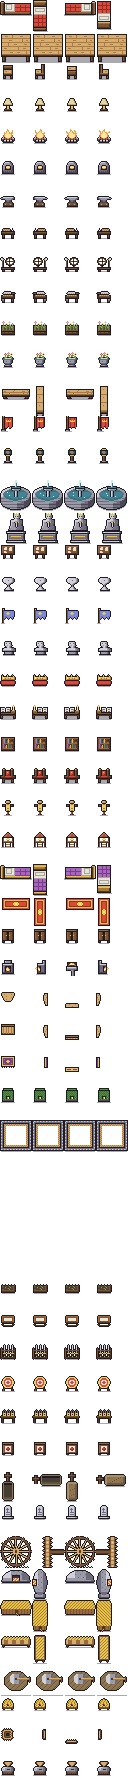
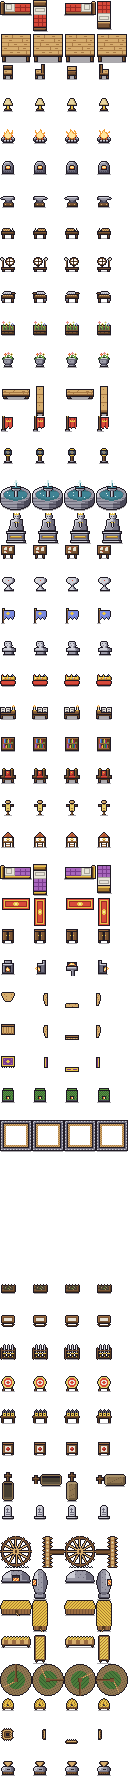
Make the traction mill a capstan behind the mill's wall
The outdoor animal mill becomes part of the mill building, like the
water wheel: a capstan (2x2, 10 wood, with the Mill research) stands on
dry land with its back against the outer wall behind the gear, its shaft
through the wall. The gear is turned by a water wheel or a capstan; with
both, the wheel goes first while the stream flows. At the millstone the
miller hitches the nearest grown-up, fed cow, who circles the post while
he pours (8 s for 2 flour); without a cow he fills the hopper, goes out
and pushes the beam himself (12 s, -5 rest), and the flour falls by the
millstone. A capstan works in winter too.

Claude-Session: https://claude.ai/code/session_01752LPAN6ZsYGVVVStQWchm

Changed region(s): [[0.0, 0.9062, 1.0, 0.9688]]

diff --git a/tools/make_sprites.py b/tools/make_sprites.py
@@ -4630,25 +4630,26 @@ def manger():
     return [front, side, front, side]
 
 
-# --- La macina a trazione (GDD 4.4.7) ---
+# --- Il maneggio del mulino (GDD 4.4.7) ---
 
-def animal_mill():
-    """Macina a trazione 32x32 (2x2), uguale girata: la mola di pietra sulla base, la stanga di legno che esce verso
-    destra (dove la mucca la tira girando)"""
+def capstan():
+    """Il maneggio 32x32 (2x2), contro il muro esterno del mulino: la pista di terra battuta dove gira chi tira, il palo
+    in mezzo, la stanga verso il basso a sinistra e l'albero che va al muro (in alto); nei quarti di giro, girato come
+    i mobili addossati (vedi BACKS in main.gd)"""
     px = {}
-    for (x, y) in disc(16, 17, 11.5, 9.5):  # la base, una pista di terra battuta
-        px[(x, y)] = "(" if (x + y) % 5 else ")"
-    for (x, y) in disc(16, 15, 6.5, 5.5):  # la mola
-        dx = x + 0.5 - 16
-        px[(x, y)] = "u" if dx < -2 else ("R" if dx > 3 else "r")
-    for (x, y) in disc(16, 15, 1.5, 1.5):  # il perno
-        px[(x, y)] = "W"
-    for x in range(17, 30):  # la stanga
-        px[(x, 14)] = "c"
-        px[(x, 15)] = "C"
-    for y in range(13, 18):  # il giogo in fondo
-        px[(29, y)] = "w"
-    return outlined_wh(px, 32, 32)
+    for (x, y) in disc(16, 16, 15, 15) - disc(16, 16, 9, 9):  # la pista
+        px[(x, y)] = "(" if (x * 3 + y) % 5 else ")"
+    for (x, y) in disc(16, 16, 9, 9):  # l'erba in mezzo, calpestata
+        px[(x, y)] = "," if (x + y) % 4 else ";"
+    for y in range(0, 15):  # l'albero, fino al muro
+        px[(15, y)] = "w"
+        px[(16, y)] = "W"
+    for i in range(1, 12):  # la stanga
+        px[(15 - i, 17 + i // 2)] = "c"
+        px[(16 - i, 17 + i // 2)] = "C"
+    for (x, y) in disc(16, 16, 2.5, 2.5):  # il palo
+        px[(x, y)] = "W" if x > 16 else "w"
+    return turns(outlined(px, 32, 32))
 
 
 # --- L'apicoltura (GDD 4.4.7): l'arnia di paglia, miele, cera, candele ---
@@ -5103,7 +5104,7 @@ def furniture_sheet():
     filatoio, banco del falegname, poi le decorazioni: aiuola, fioriera, panca, stendardo, lampione, fontana, statua;
     la bacheca; i cimeli: calice, stendardo antico, busto, corona; scrittoio, libreria, trono, fantoccio, torre di guardia, baldacchino, tappeto, armadio, focolare, pelli alle pareti, portiera, arazzo, stufa a olle, fossa del ghiaccio, quattro righe vuote (le strutture che vengono dopo
     in Build), il cumulo del compost, la culla; la rastrelliera, il bersaglio e il banco degli scassi; l'armadio dei rimedi,
-    la tomba, il memoriale, la ruota del mulino, il forno, il pollaio, la mangiatoia, la macina a trazione, l'arnia, il pignone e la
+    la tomba, il memoriale, la ruota del mulino, il forno, il pollaio, la mangiatoia, il maneggio, l'arnia, il pignone e la
     macina del mulino (come Build in main.gd);
     colonne: quarti di giro in senso orario (per fuoco, stendardo e fontana, fotogrammi), ognuno in alto a sinistra nel suo riquadro 32x32."""
     bed, chair, chair_left = art(BED, 32, 16), art(CHAIR, 16, 16), art(CHAIR_LEFT, 16, 16)
@@ -5147,7 +5148,7 @@ def furniture_sheet():
     rows += [[art(MEDICINE_CHEST, 16, 16)] * 4]
     rows += [[grave(False, True), grave(False, False), grave(True, True), grave(True, False)]]
     rows += [[art(MEMORIAL, 16, 16)] * 4]
-    rows += [water_wheel(), oven(), coop(), manger(), [animal_mill()] * 4, [art(HIVE, 16, 16)] * 4]
+    rows += [water_wheel(), oven(), coop(), manger(), capstan(), [art(HIVE, 16, 16)] * 4]
     rows += [(lambda g: [g[0], g[1], g[2], mirror(g[1])])(frames(MILL_GEAR)), [art(MILLSTONE, 16, 16)] * 4]
     slot = lambda g: [line.ljust(32, ".") for line in g] + ["." * 32] * (32 - len(g))
     return [line for row in rows for line in side_by_side([slot(g) for g in (row or [[]] * 4)])]

diff --git a/docs/GDD.md b/docs/GDD.md
@@ -1002,17 +1002,17 @@ d'estate pascolano, d'inverno stanno nella stalla col fieno tagliato d'estate, e
 
   | Ricerca | Liv. | Studio | Richiede | Sblocca |
   |---|---|---|---|---|
-  | Mulino | I | 100 | Orto | il grano nei campi, il mulino ad acqua, la farina |
+  | Mulino | I | 100 | Orto | il grano nei campi, il mulino (ruota o maneggio, pignone, macina), la farina |
   | Forno di pietra | II | 300 | Orto | il forno: pane (con la farina), stufato, conserve |
   | Allevamento | I | 100 | Caccia | il pascolo, il pollaio, il mercante di bestiame; galline e maiali; il lavoro Allevare |
-  | Stalla | II | 250 | Allevamento | stalla e mangiatoia, il fieno, il letame; pecore e mucche, latte, formaggio, lana; la macina a trazione (col Mulino) |
+  | Stalla | II | 250 | Allevamento | stalla e mangiatoia, il fieno, il letame; pecore e mucche, latte, formaggio, lana |
   | Apicoltura | III | 450 | Forno di pietra | l'arnia: miele, cera, candele |
   | Banchetto reale | IV | 1000 | Apicoltura | il banchetto nella sala del trono |
 
 - **Il torrente**: nelle mappe nuove, oltre ai laghi, un torrente attraversa la mappa da un bordo a quello di fronte,
   serpeggiando, a 22–30 caselle dal centro (lontano dalla radura): 2–3 caselle d'acqua bassa (si guada, piano come
   quella dei laghi), qua e là una pozza di 5 caselle, alta in mezzo. Si pesca e gela come i laghi. Le partite cominciate prima non ce l'hanno: lì niente
-  mulino ad acqua, resta la macina a trazione.
+  mulino ad acqua: il mulino va col maneggio.
 - **Grano**: una coltura nuova della pianificazione (4.4.1), color oro: matura in 100 giorni, 25 a casella, −12 di
   fertilità a raccolto. Non si mangia e non marcisce: si macina.
 - **Mulino ad acqua** (rifatto il 2026-11-20: un edificio, non un mobile): una stanza sulla riva del torrente, tipo
@@ -1027,9 +1027,13 @@ d'estate pascolano, d'inverno stanno nella stalla col fieno tagliato d'estate, e
   mai. Si macina finché in giro c'è meno farina di quanta ne chiede il menu della macina (all'inizio 10). Senza la ruota
   dietro il pignone, o col torrente gelato, la macina sta ferma (lo dice il menu; col mouse sopra il pignone, se la ruota
   lo gira). La farina non marcisce.
-- **Macina a trazione** (mobile 2x2, 15 pietra e 5 legna, all'aperto, con la Stalla e il Mulino): una mola di pietra
-  con la stanga. Per macinare il mugnaio attacca alla stanga la mucca adulta e sazia più vicina: lei ci va e gira, lui
-  versa il grano. 2 grano → 2 farina in 8 s, anche d'inverno. Senza una mucca così sta ferma (lo dice il menu).
+- **Maneggio** (rifatto il 2026-11-20 come il mulino ad acqua; prima era una macina a trazione all'aperto): lo stesso
+  mulino (macina e pignone dentro), ma dietro il muro del pignone, all'asciutto, al posto della ruota il **maneggio**
+  (mobile 2x2, 10 legna, col Mulino): un palo con la stanga su una pista di terra battuta, con le spalle al muro e
+  l'albero che passa dal muro. Il mugnaio attacca alla stanga la mucca adulta e sazia più vicina: lei ci va e gira
+  attorno al palo, lui versa il grano: 2 grano → 2 farina in 8 s. Senza una mucca così versa il grano nella tramoggia,
+  esce e spinge lui la stanga: 12 s, e perde 5 di riposo; la farina cade accanto alla macina. Lavora anche d'inverno;
+  con ruota e maneggio insieme, finché il torrente scorre gira la ruota.
 - **Forno di pietra** (mobile 2x1, 20 pietra, in una cucina; scalda la stanza come il fuoco da campo): ha il suo menu,
   come le altre postazioni (4.4.2). "Vegetali" sono tutti i crudi dell'orto e dei cespugli: bacche, rape, cavoli, fave.
 
@@ -1113,15 +1117,18 @@ d'estate pascolano, d'inverno stanno nella stalla col fieno tagliato d'estate, e
   dei cibi; (3) l'Allevamento: il pascolo con l'erba e la staccionata, galline e maiali, il pollaio e le uova, la
   sazietà e i piccoli, il lavoro e l'abilità Allevare, macellare e quanti tenerne, il mercante di bestiame, i lupi nel
   pascolo; (4) la Stalla: stalla e mangiatoie, il fieno, l'inverno nella stalla, pecore e mucche, latte e formaggio,
-  tosatura e lana, il letame; (5) la macina a trazione; (6) l'Apicoltura: arnia, miele, cera, candele; (7) il Banchetto
+  tosatura e lana, il letame; (5) la macina a trazione (poi il maneggio); (6) l'Apicoltura: arnia, miele, cera, candele; (7) il Banchetto
   reale.
 - **Stato**: fatte le fasi 1–7 il 2026-11-20 (test in `tests/test_grain.gd` e `tests/test_livestock.gd`): il torrente (`stream`, salvato: le partite
   di prima non ce l'hanno, e lì il mulino non si fa), il grano nella pianificazione col Mulino, il mulino ad acqua e la
   farina. La ruota (che ha preso il posto del mulino di prima in `Build`) si posa solo sul torrente (`can_build`) e,
   come i mobili addossati, con tutta la fila alle spalle di muro (`backed`); il pignone gira se due caselle dietro, oltre
   il muro, c'è la ruota girata verso quel muro (`geared`, `mill_turns`). Perché una postazione non lavora lo dice
-  `station_block`, nel menu. La macina a trazione è la prima postazione all'aperto: chi ci lavora sta fuori
-  (`station_stand`), col comfort a metà (`station_comfort`).
+  `station_block`, nel menu. Il maneggio ha preso il posto della macina a trazione in `Build`; il pignone lo trova come
+  la ruota (`gear_drive`, `DRIVES`), e quale dei due gira la macina lo dice `mill_drive`. Il mugnaio decide all'inizio
+  (`try_craft`): la mucca (in `prey`, che gira attorno a `mill_hub`) o a mano (`pushing`: portato il grano, va alla
+  stanga e ci gira attorno; la farina in `dest`, accanto alla macina, vedi `finish_craft`). Le postazioni all'aperto
+  (`station_stand`, `station_comfort`) restano per quelle che verranno.
   Il forno: gli ingredienti a scelta delle ricette sono gruppi (`GROUPS`: chiavi negative in `RECIPES`), che il
   fornaio sceglie quando comincia (`resolve`) e si tiene finché non ha finito (`recipe_needs`); nel menu, l'icona del
   primo del gruppo e col mouse sopra gli altri. L'ordine dei cibi è `EATEN` (`COOKED`, poi il crudo); il pane non dà
@@ -1139,8 +1146,8 @@ d'estate pascolano, d'inverno stanno nella stalla col fieno tagliato d'estate, e
   lo portano per primo (`dest_cells`), anche dai magazzini se una mangiatoia ne vuole; chi mangia ne toglie uno ogni
   fieno intero (`eat_hay`). Le galline mangiano da una mangiatoia qualsiasi e lasciano il letame nel pascolo. Mungere,
   tosare e macellare tengono fermo l'animale (`handler`, `try_handle`). Il fieno si falcia nella colonna Coltivare (tasto
-  Z). La macina tiene la mucca come chi munge (`handler`); il mugnaio aspetta che arrivi, e mentre macina lei gira
-  attorno al centro della macina (`mill_hub`). Le arnie fanno il miele all'alba (`make_honey`); la candela si accende
+  Z). Il maneggio tiene la mucca come chi munge (`handler`); il mugnaio aspetta che arrivi, e mentre macina lei gira
+  attorno al palo (`mill_hub`). Le arnie fanno il miele all'alba (`make_honey`); la candela si accende
   quando si calcola una pagina di notte allo scrittoio (`light_candle`, una a notte per scrittoio: `candles`). Il
   banchetto è come un funerale (`hold_banquet`, Job.FEAST): le portate non si vedono, si prendono dai magazzini quando
   lo si ordina (`order_banquet`). Poi: i maiali che mangiano anche il marcio; i cuochi che portano le portate in tavola.
@@ -1319,7 +1326,7 @@ si mettono in vigore sui **sigilli** che il titolo concede. Il sapere viene da f
   | Ramo | Ricerca | Liv. | Studio | Richiede | Sblocca |
   |---|---|---|---|---|---|
   | Terra | Orto ✓ | I | 80 | — | zona orto e lavoro Coltivare: rape in 60 giorni e cavoli in 90, niente d'inverno |
-  | | Mulino ✓ | I | 100 | Orto | il grano nei campi; il mulino ad acqua sul torrente: la farina (vedi 4.4.7) |
+  | | Mulino ✓ | I | 100 | Orto | il grano nei campi; il mulino (la ruota nel torrente o il maneggio, il pignone, la macina): la farina (vedi 4.4.7) |
   | | Forno di pietra ✓ | II | 300 | Orto | forno 2x1 in cucina: pane (2 farina → 3, sazia 60, dura 8 giorni), stufato, conserve (vedi 4.4.7) |
   | | Saggio del terreno ✓ | I | 60 | Orto | la lente della terra (O) in tre fasce; la fascia sul cartello del campo |
   | | Almanacco agrario ✓ | II | 250 | Saggio del terreno | cinque fasce; se un campo sale o scende rispetto a un anno prima |
@@ -1330,7 +1337,7 @@ si mettono in vigore sui **sigilli** che il titolo concede. Il sapere viene da f
   | | Caccia ✓ | I | 50 | — | *filatoio, corda d'arco, banco del falegname, falegnameria, arco, pelli alle pareti, portiera* (vedi 4.4.5) |
   | | Affumicatoio ✓ | II | 200 | Caccia | al fuoco: carne e pesce affumicati durano quattro volte tanto (scorta 0 dal menu); si mangiano e si cucinano come il crudo |
   | | Allevamento ✓ | I | 100 | Caccia | il pascolo, il pollaio, il mercante di bestiame: galline e maiali; il lavoro Allevare (vedi 4.4.7) |
-  | | Stalla ✓ | II | 250 | Allevamento | stalla e mangiatoia, il fieno, il letame; pecore e mucche: latte, formaggio, lana; la macina a trazione, col Mulino (vedi 4.4.7) |
+  | | Stalla ✓ | II | 250 | Allevamento | stalla e mangiatoia, il fieno, il letame; pecore e mucche: latte, formaggio, lana (vedi 4.4.7) |
   | | Dispensa fredda ✓ | I | 100 | — | stanza dispensa, solo per il cibo, che ci va per primo: dura il triplo che fuori (in magazzino il doppio) |
   | | Ghiacciaia ✓ | II | 250 | Dispensa fredda | *ghiacciaia* (muri di pietra o roccia), *fossa del ghiaccio*; Tagliare il ghiaccio d'inverno: col ghiaccio la stanza va verso 0 °C (vedi 4.4.5) |
   | Fuoco | Forgia ✓ | I | 60 | — | *fornace, incudine, forgia, lingotto, piccone, ascia, falcetto* |

diff --git a/docs/DA_FARE.md b/docs/DA_FARE.md
@@ -127,7 +127,7 @@ Dinastia (4.3.3, fatta): quello che resta.
 
 Deciso il 2026-11-20; fatte le fasi 1 (torrente, grano, mulino ad acqua), 2 (forno: pane, stufato, conserve) e 3
 (allevamento: pascolo, galline e maiali, pollaio, macello, mercante di bestiame), 4 (stalla: fieno, mangiatoie, pecore e
-mucche, latte, formaggio, lana, letame), 5 (la macina a trazione), 6 (le api: arnia, miele, cera, candele) e 7 (il banchetto reale). Resta:
+mucche, latte, formaggio, lana, letame), 5 (la macina a trazione, poi rifatta come maneggio del mulino), 6 (le api: arnia, miele, cera, candele) e 7 (il banchetto reale). Resta:
 
 - [ ] Il mantello imbottito di lana al telaio (vedi Forgia).
 - [ ] I maiali che mangiano anche il marcio, alla mangiatoia.
